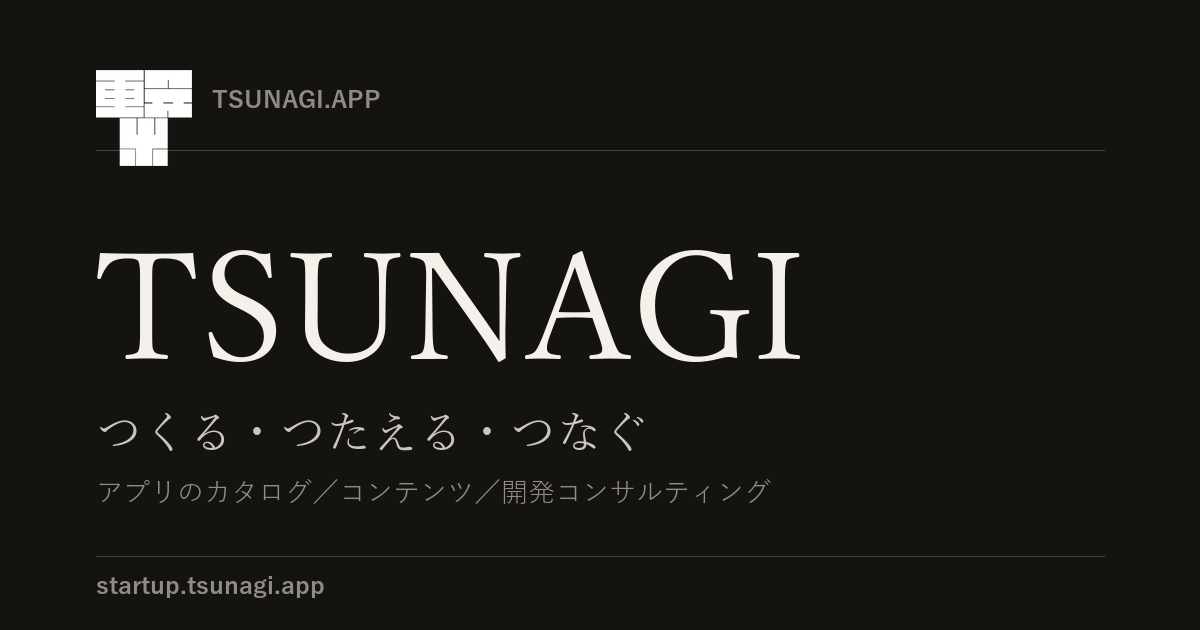
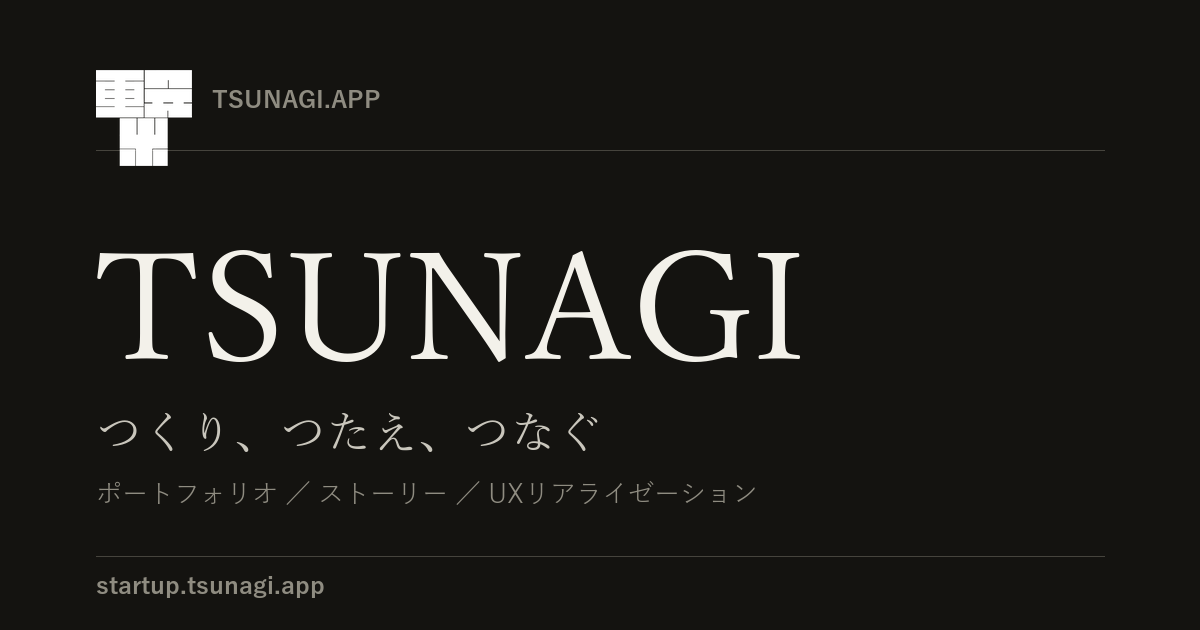
トップページを2ブロック構成へ刷新・主メッセージを再設計
- トップページをメッセージ＋各ページリンクの2ブロックに集約。
  TSUKURU/TSUTAERU/TSUNAGU のプレビュー3ブロックとヒーローCTAを削除
- 主メッセージを刷新（「アプリ」起点をやめ、継承・見立て・磨き込みの
  価値観を表現）：
  見出し「受け継ぎ、見立て、磨き込む」、kicker「つくり、つたえ、つなぐ」
- 各ページの説明を ポートフォリオ／ストーリー／UXリアライゼーション に
- 不要になった i18n キー（hero CTA・section title・section more）を整理
- OG画像を新タグライン・新セクション名で再生成

Changed region(s): [[0.0925, 0.754, 0.6475, 0.8143], [0.3392, 0.6635, 0.5242, 0.7238], [0.1542, 0.6635, 0.185, 0.7238]]

diff --git a/src/i18n/index.ts b/src/i18n/index.ts
@@ -13,7 +13,7 @@ export const localeLabel: Record<Locale, string> = {
 export const ui = {
   ja: {
     'site.name': 'tsunagi',
-    'site.tagline': 'つくる・つたえる・つなぐ',
+    'site.tagline': 'つくり、つたえ、つなぐ',
 
     'nav.catalog': 'TSUKURU',
     'nav.content': 'TSUTAERU',
@@ -22,23 +22,14 @@ export const ui = {
     'nav.menu': 'メニュー',
     'nav.skip': '本文へスキップ',
 
-    'home.hero.kicker': 'tsunagi.app プロジェクト',
-    'home.hero.title': 'アプリをつくり、知見をつたえ、人とつなぐ。',
+    'home.hero.kicker': 'つくり、つたえ、つなぐ',
+    'home.hero.title': '受け継ぎ、見立て、磨き込む',
     'home.hero.lead':
-      'tsunagi は個人開発のアプリ群と、その設計・開発・運用の知見を一か所に集約したプロジェクトです。プロダクトのカタログ、有料・無料のコンテンツ、開発受託のご相談までをここから。',
-    'home.hero.cta.catalog': 'カタログを見る',
-    'home.hero.cta.consulting': '開発を相談する',
+      '伝統的なアプリやサービスの良いところを引き継ぎ、必要十分を見立て、使い心地を磨き上げる。そしてまた、次世代へ繋ぐ。',
 
-    'home.section.catalog.title': 'TSUKURU — プロダクト一覧',
-    'home.section.catalog.desc':
-      'tsunagi.app ドメインで公開中のアプリと、開発中のプロジェクトをまとめています。',
-    'home.section.content.title': 'TSUTAERU — 記事・ノウハウ',
-    'home.section.content.desc':
-      'アプリ開発・運用・コンサルティングのアプローチを記事として公開。一部は有料記事です。',
-    'home.section.consulting.title': 'TSUNAGU — 開発受託',
-    'home.section.consulting.desc':
-      'アプリのデザイン・開発・運用を受託します。お問い合わせは Discord に特化しています。',
-    'home.section.more': '詳しく見る',
+    'home.section.catalog.desc': 'ポートフォリオ',
+    'home.section.content.desc': 'ストーリー',
+    'home.section.consulting.desc': 'UXリアライゼーション',
 
     'catalog.title': 'TSUKURU',
     'catalog.lead': 'tsunagi のプロダクトと開発中プロジェクト。',
@@ -122,23 +113,14 @@ export const ui = {
     'nav.menu': 'Menu',
     'nav.skip': 'Skip to content',
 
-    'home.hero.kicker': 'The tsunagi.app project',
-    'home.hero.title': 'Build apps, share what we learn, connect with people.',
+    'home.hero.kicker': 'Create · Convey · Connect',
+    'home.hero.title': 'Inherit, curate, hone.',
     'home.hero.lead':
-      'tsunagi brings together a family of indie apps and the know-how behind designing, building, and running them — a product catalog, free and paid content, and development consulting, all in one place.',
-    'home.hero.cta.catalog': 'Browse the catalog',
-    'home.hero.cta.consulting': 'Discuss a project',
+      'Inherit the good from long-established apps and services, curate what is necessary and sufficient, and hone how it feels to use. Then, once more, connect it to the next generation.',
 
-    'home.section.catalog.title': 'TSUKURU — Products',
-    'home.section.catalog.desc':
-      'Apps published on the tsunagi.app domain, plus projects still in development.',
-    'home.section.content.title': 'TSUTAERU — Articles & know-how',
-    'home.section.content.desc':
-      'Approaches to building, running, and consulting on apps. Some articles are paid.',
-    'home.section.consulting.title': 'TSUNAGU — Development services',
-    'home.section.consulting.desc':
-      'We take on app design, development, and operations. Inquiries are handled via Discord.',
-    'home.section.more': 'Learn more',
+    'home.section.catalog.desc': 'Portfolio',
+    'home.section.content.desc': 'Story',
+    'home.section.consulting.desc': 'UX Realization',
 
     'catalog.title': 'TSUKURU',
     'catalog.lead': 'tsunagi products and projects in development.',
